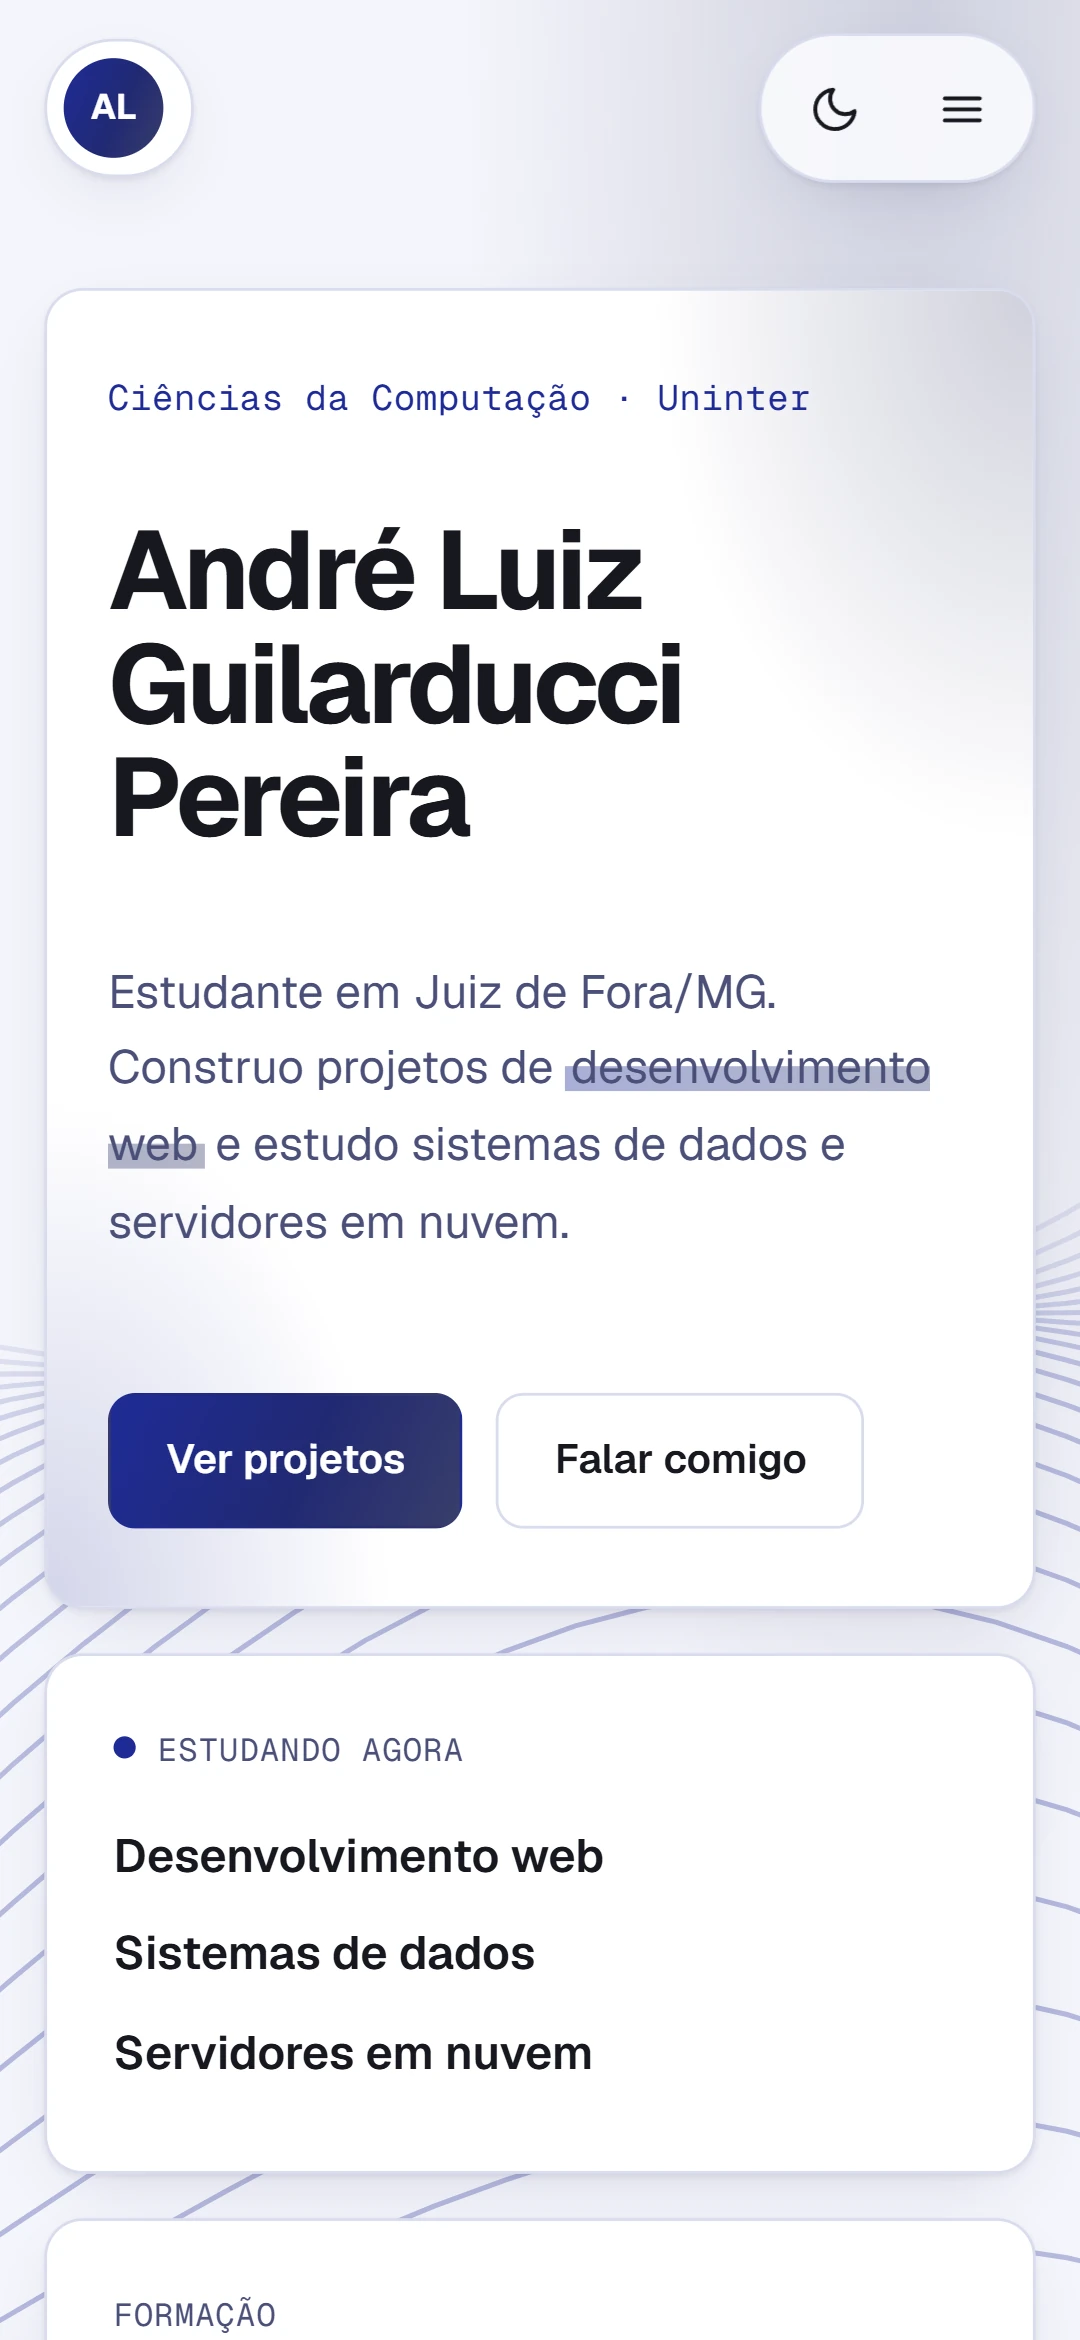
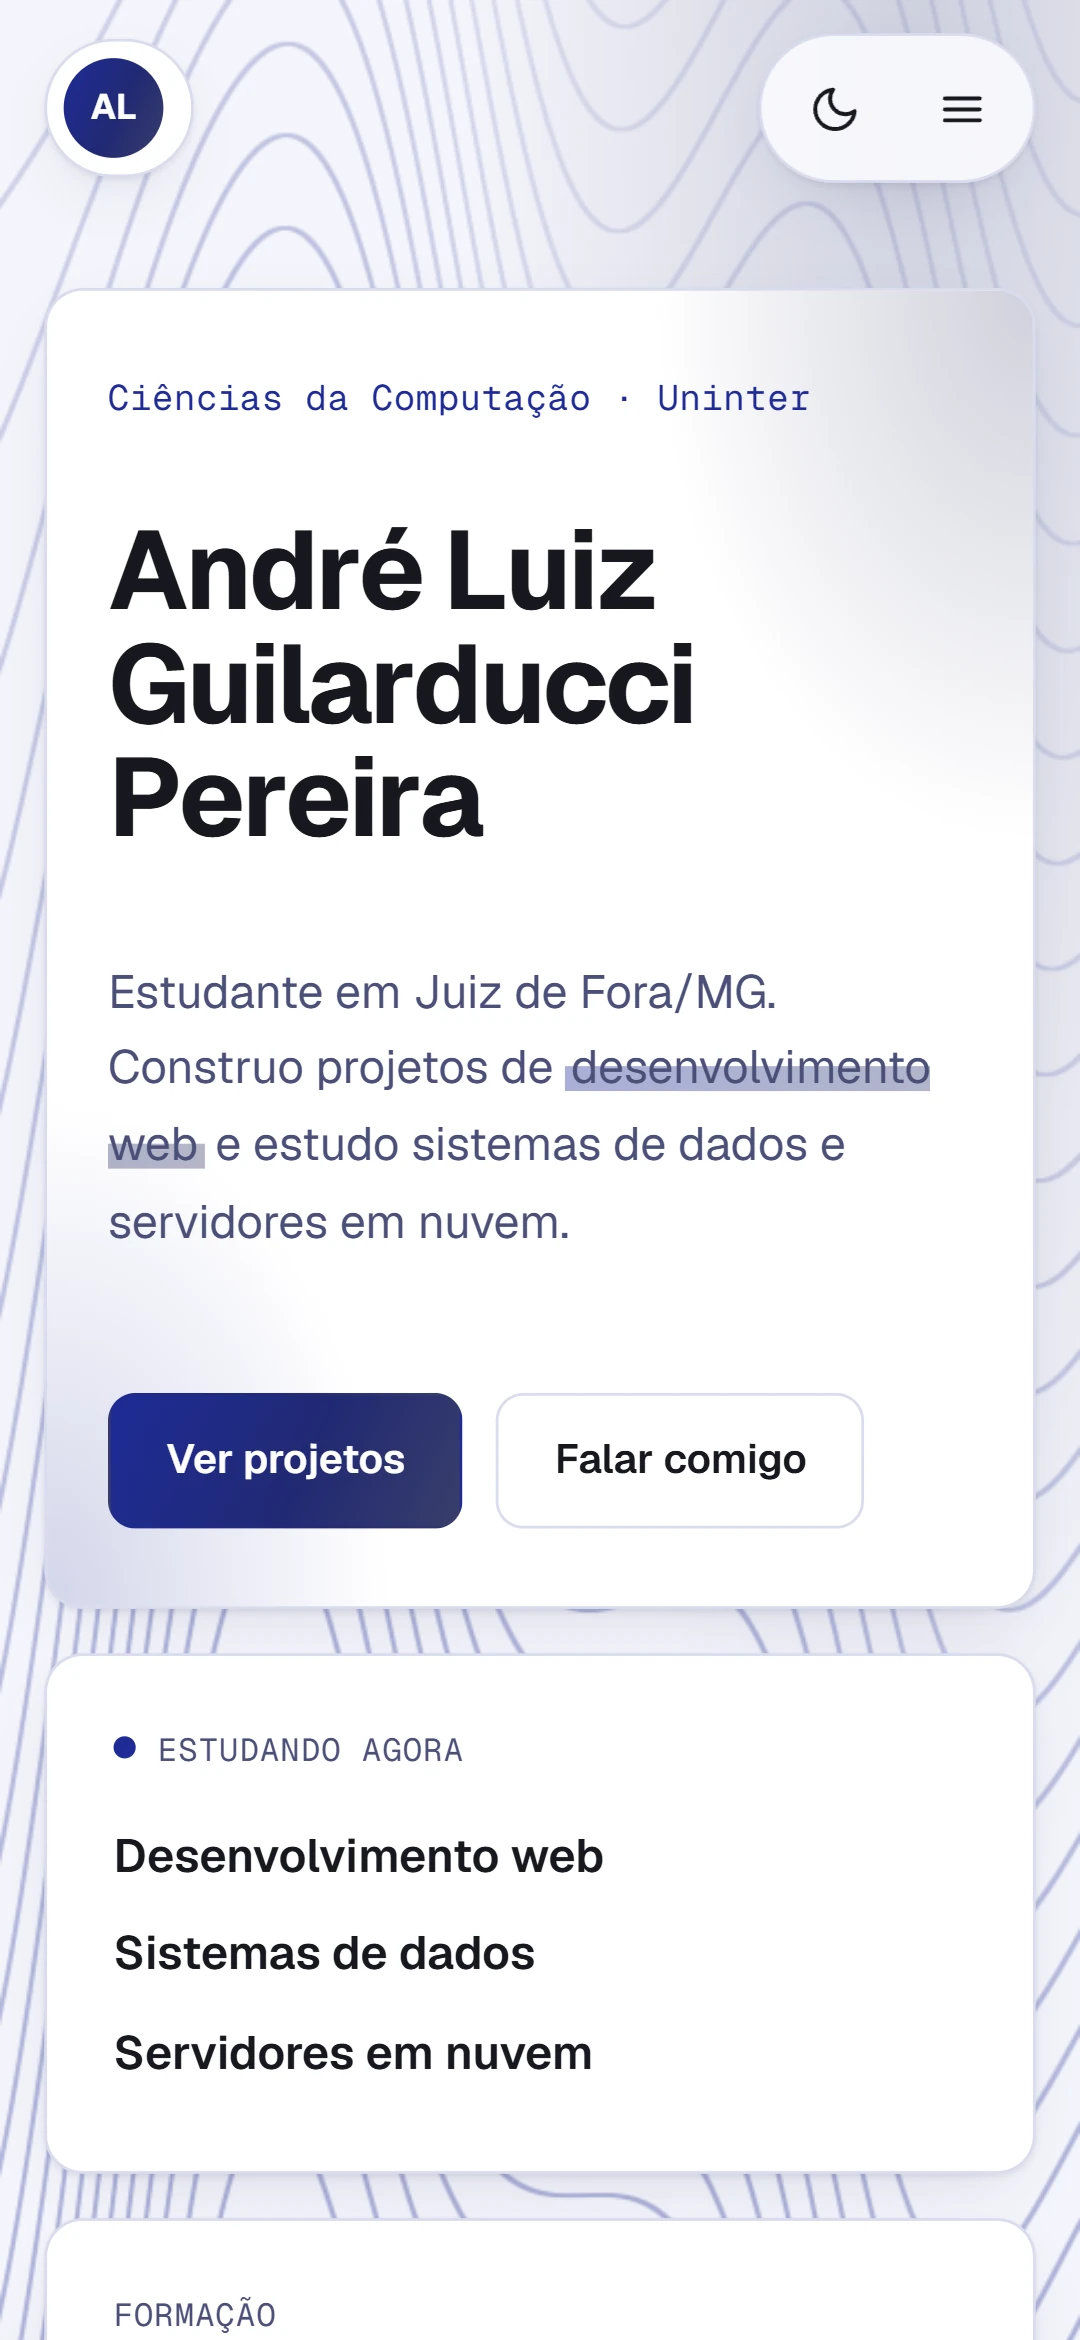
feat: ondas animadas, letras que sobem, blocos com luz e tema escuro em preto e azul
- Ondas em WebGL (sem biblioteca) no fundo do início e das seções alternadas;
  reagem ao cursor, pausam fora da tela e viram quadro parado com movimento
  reduzido. Sem WebGL, o ondas.svg estático continua
- Nome e títulos das seções entram letra a letra, uma vez só; o texto inteiro
  fica no aria-label
- Blocos do início: borda que acende perto do cursor, inclusive nos vizinhos,
  e onda de luz no clique
- Tema escuro em preto (#0b0b10, #181820) com o azul Klein nos botões e um azul
  mais claro em links e números
- Capturas do próprio portfólio refeitas com o visual novo

diff --git a/script.js b/script.js
@@ -1,4 +1,4 @@
-// script.js — tema, menu, destaque do link ativo, entrada ao rolar e formulário
+// script.js — tema, menu, destaque do link ativo, entrada ao rolar, formulário e efeitos do início
 
 document.addEventListener("DOMContentLoaded", () => {
     const root = document.documentElement;
@@ -87,8 +87,8 @@ document.addEventListener("DOMContentLoaded", () => {
         document.querySelectorAll('.reveal').forEach((el) => el.classList.add('visivel'));
     }
 
-    // 4b. LUZ QUE SEGUE O CURSOR nos tiles e cards (só com mouse)
-    document.querySelectorAll('.tile, .projeto').forEach((el) => {
+    // 4b. LUZ QUE SEGUE O CURSOR nos cartões de projeto (nos blocos do início, ver 6b)
+    document.querySelectorAll('.projeto').forEach((el) => {
         el.addEventListener('pointermove', (e) => {
             if (e.pointerType !== 'mouse') return;
             const r = el.getBoundingClientRect();
@@ -177,4 +177,197 @@ document.addEventListener("DOMContentLoaded", () => {
         aviso.textContent = 'Abrindo seu app de e-mail. Se nada abrir, escreva para aluiz0953@gmail.com.';
         form.reset();
     });
+
+    // 6. EFEITOS DO INÍCIO
+    const calmo = window.matchMedia('(prefers-reduced-motion: reduce)').matches;
+
+    // 6a. LETRAS QUE SOBEM: o nome e os títulos das seções entram letra a letra, uma vez só.
+    //     As letras ficam em spans escondidos de leitores de tela; o título inteiro vai no aria-label.
+    const titulos = document.querySelectorAll('.hero h1, .secao-cab h2');
+    if (!calmo && 'IntersectionObserver' in window) {
+        titulos.forEach((el) => {
+            const texto = el.textContent.trim();
+            let n = 0;
+            el.setAttribute('aria-label', texto);
+            el.innerHTML = texto.split(/\s+/).map((palavra) =>
+                '<span class="sp-w" aria-hidden="true">' +
+                [...palavra].map((c) => `<span class="sp-c" style="--ci:${n++}">${c}</span>`).join('') +
+                '</span>').join(' ');
+            el.classList.add('split');
+        });
+        const verLetras = new IntersectionObserver((entradas) => {
+            entradas.forEach((e) => {
+                if (!e.isIntersecting) return;
+                e.target.classList.add('split-ativo');
+                verLetras.unobserve(e.target);
+            });
+        }, { threshold: 0.2 });
+        titulos.forEach((el) => verLetras.observe(el));
+    }
+
+    // 6b. BLOCOS DO INÍCIO: a borda acende perto do cursor (também nos blocos vizinhos)
+    //     e um clique solta uma onda de luz que atravessa a grade.
+    const bento = document.querySelector('.bento');
+    if (bento) {
+        const blocos = [...bento.querySelectorAll('.tile')];
+        blocos.forEach((t) => t.insertAdjacentHTML('beforeend',
+            '<span class="tile-onda-luz" aria-hidden="true"></span><span class="tile-borda" aria-hidden="true"></span><span class="tile-onda" aria-hidden="true"></span>'));
+
+        let px = -1e5, py = -1e5, onda = null, raf = 0;
+        const quadro = (agora) => {
+            raf = 0;
+            let wr = 0, wa = 0;
+            if (onda) {
+                const p = Math.min(1, (agora - onda.t0) / 1500);
+                wr = onda.alcance * (1 - Math.pow(1 - p, 2.2));
+                wa = Math.pow(1 - p, 1.3);
+                if (p >= 1) onda = null;
+            }
+            blocos.forEach((t) => {
+                const r = t.getBoundingClientRect();
+                t.style.setProperty('--mx', (px - r.left).toFixed(1) + 'px');
+                t.style.setProperty('--my', (py - r.top).toFixed(1) + 'px');
+                if (onda || wa === 0) {
+                    t.style.setProperty('--wx', ((onda ? onda.x : 0) - r.left).toFixed(1) + 'px');
+                    t.style.setProperty('--wy', ((onda ? onda.y : 0) - r.top).toFixed(1) + 'px');
+                    t.style.setProperty('--wr', wr.toFixed(1) + 'px');
+                    t.style.setProperty('--wa', wa.toFixed(3));
+                }
+            });
+            if (onda) raf = requestAnimationFrame(quadro);
+        };
+        const pedir = () => { if (!raf) raf = requestAnimationFrame(quadro); };
+
+        window.addEventListener('pointermove', (e) => {
+            if (e.pointerType !== 'mouse') return;
+            px = e.clientX; py = e.clientY;
+            const b = bento.getBoundingClientRect(), m = 120;
+            const perto = px > b.left - m && px < b.right + m && py > b.top - m && py < b.bottom + m;
+            bento.classList.toggle('perto', perto);
+            if (perto) pedir();
+        }, { passive: true });
+        document.documentElement.addEventListener('mouseleave', () => bento.classList.remove('perto'));
+
+        if (!calmo) {
+            bento.addEventListener('pointerdown', (e) => {
+                const b = bento.getBoundingClientRect();
+                const alcance = Math.max(...[[b.left, b.top], [b.right, b.top], [b.left, b.bottom], [b.right, b.bottom]]
+                    .map(([x, y]) => Math.hypot(x - e.clientX, y - e.clientY))) + 140;
+                onda = { x: e.clientX, y: e.clientY, t0: performance.now(), alcance };
+                pedir();
+            });
+        }
+    }
+
+    // 6c. ONDAS ANIMADAS NO FUNDO (WebGL, sem biblioteca): no início e nas seções alternadas.
+    //     Reagem ao cursor, param quando a seção sai da tela e viram um quadro parado com
+    //     movimento reduzido. Sem WebGL, o ondas.svg estático continua no lugar.
+    const FRAG = `
+        #extension GL_OES_standard_derivatives : enable
+        precision highp float;
+        uniform vec2 uRes, uMouse;
+        uniform float uTempo, uMouseOn, uAlpha;
+        uniform vec3 uCor;
+        void main() {
+            vec2 p = gl_FragCoord.xy / uRes.y;
+            float x = p.x * uRes.y / uRes.x;
+            float t = uTempo;
+            // faixas de linhas que se juntam e se afastam, como no ondas.svg
+            float env = .55 + .45 * sin(6.2832 * x * .55 + p.y * 1.4 + t * .15);
+            float w = .23 * sin(6.2832 * x * .85 + p.y * 1.6 + t * .35) * env
+                    + .06 * sin(6.2832 * x * 2.2 - p.y * 3. - t * .6)
+                    + .16 * x;
+            vec2 d = p - uMouse;
+            w += uMouseOn * .09 * exp(-dot(d, d) * 16.);
+            float v = (p.y + w) * 34.;
+            float f = fract(v), dist = min(f, 1. - f), fw = fwidth(v);
+            float linha = 1. - smoothstep(0., fw * 1.2, dist - fw * .3);
+            float faixa = .3 + .7 * smoothstep(0., 1., .5 + .5 * sin(v * .09 + t * .1));
+            float a = linha * faixa * uAlpha;
+            gl_FragColor = vec4(uCor * a, a);
+        }`;
+
+    const ondas = (secao, intensidade) => {
+        const tela = document.createElement('canvas');
+        const gl = tela.getContext('webgl', { premultipliedAlpha: true, antialias: false });
+        if (!gl || !gl.getExtension('OES_standard_derivatives')) return;
+        const compilar = (tipo, fonte) => {
+            const s = gl.createShader(tipo);
+            gl.shaderSource(s, fonte);
+            gl.compileShader(s);
+            return s;
+        };
+        const prog = gl.createProgram();
+        gl.attachShader(prog, compilar(gl.VERTEX_SHADER, 'attribute vec2 a;void main(){gl_Position=vec4(a,0.,1.);}'));
+        gl.attachShader(prog, compilar(gl.FRAGMENT_SHADER, FRAG));
+        gl.linkProgram(prog);
+        if (!gl.getProgramParameter(prog, gl.LINK_STATUS)) return;
+
+        gl.useProgram(prog);
+        gl.bindBuffer(gl.ARRAY_BUFFER, gl.createBuffer());
+        gl.bufferData(gl.ARRAY_BUFFER, new Float32Array([-1, -1, 3, -1, -1, 3]), gl.STATIC_DRAW);
+        gl.enableVertexAttribArray(0);
+        gl.vertexAttribPointer(0, 2, gl.FLOAT, false, 0, 0);
+        const u = {};
+        ['uRes', 'uMouse', 'uTempo', 'uMouseOn', 'uAlpha', 'uCor'].forEach((k) => { u[k] = gl.getUniformLocation(prog, k); });
+
+        tela.className = 'ondas-vivas';
+        tela.setAttribute('aria-hidden', 'true');
+        secao.prepend(tela);
+        secao.classList.add('tem-ondas');
+
+        // cor e intensidade vêm do tema (o token --accent já resolvido pelo CSS)
+        const lerTema = () => {
+            const hex = getComputedStyle(root).getPropertyValue('--accent').trim().replace('#', '');
+            const c = [0, 2, 4].map((i) => parseInt(hex.slice(i, i + 2), 16) / 255);
+            gl.uniform3fv(u.uCor, c.every((n) => n >= 0) ? c : [0.12, 0.17, 0.59]);
+            gl.uniform1f(u.uAlpha, intensidade[root.dataset.theme === 'dark' ? 1 : 0]);
+        };
+        lerTema();
+
+        const escala = Math.min(window.devicePixelRatio || 1, 1.25);
+        const medir = () => {
+            tela.width = Math.max(1, Math.round(secao.clientWidth * escala));
+            tela.height = Math.max(1, Math.round(secao.clientHeight * escala));
+            gl.viewport(0, 0, tela.width, tela.height);
+            gl.uniform2f(u.uRes, tela.width, tela.height);
+        };
+        medir();
+
+        let mx = 0.5, my = 0.5, alvoX = 0.5, alvoY = 0.5, mouseOn = 0, alvoOn = 0;
+        window.addEventListener('pointermove', (e) => {
+            if (e.pointerType !== 'mouse') return;
+            const r = secao.getBoundingClientRect();
+            alvoX = (e.clientX - r.left) / r.height;
+            alvoY = (r.bottom - e.clientY) / r.height;
+            alvoOn = e.clientY >= r.top && e.clientY <= r.bottom ? 1 : 0;
+        }, { passive: true });
+
+        let rodando = false, raf = 0;
+        const desenhar = (agora) => {
+            mx += (alvoX - mx) * 0.06;
+            my += (alvoY - my) * 0.06;
+            mouseOn += (alvoOn - mouseOn) * 0.05;
+            gl.uniform1f(u.uTempo, calmo ? 8 : agora / 1000);
+            gl.uniform2f(u.uMouse, mx, my);
+            gl.uniform1f(u.uMouseOn, calmo ? 0 : mouseOn);
+            gl.clearColor(0, 0, 0, 0);
+            gl.clear(gl.COLOR_BUFFER_BIT);
+            gl.drawArrays(gl.TRIANGLES, 0, 3);
+            raf = rodando && !calmo ? requestAnimationFrame(desenhar) : 0;
+        };
+        const ligar = (sim) => {
+            rodando = sim;
+            if (sim && !raf) raf = requestAnimationFrame(desenhar);
+        };
+
+        new ResizeObserver(() => { medir(); if (!rodando || calmo) desenhar(performance.now()); }).observe(secao);
+        new MutationObserver(() => { lerTema(); if (!rodando || calmo) desenhar(performance.now()); })
+            .observe(root, { attributes: true, attributeFilter: ['data-theme'] });
+        new IntersectionObserver(([e]) => ligar(e.isIntersecting)).observe(secao);
+    };
+
+    // intensidade das linhas: [tema claro, tema escuro]
+    document.querySelectorAll('.hero').forEach((s) => ondas(s, [0.34, 0.42]));
+    document.querySelectorAll('section.alt').forEach((s) => ondas(s, [0.2, 0.26]));
 });

diff --git a/style.css b/style.css
@@ -42,20 +42,20 @@
 }
 
 :root[data-theme="dark"] {
-    --grad: linear-gradient(115deg, #a2acff, #8d99ff 50%, #7380f0);
-    --on-grad: #0F124A;
-    --bg: #0F124A;
-    --bg-alt: #0b0e3b;
-    --surface: #151a63;
-    --ink: #eceeff;
-    --muted: #a3a9d6;
-    --line: #2a3084;
-    --accent: #8d99ff;
-    --accent-strong: #b3bbff;
-    --accent-ink: #0F124A;
-    --accent-soft: #1d2377;
+    /* preto (cinza sombra #181820 e tons abaixo dele) com o azul Klein: botões e gradientes
+       em #1F2B96 com texto branco; links e números num azul mais claro, legível sobre o preto */
+    --bg: #0b0b10;
+    --bg-alt: #101016;
+    --surface: #181820;
+    --ink: #ececf3;
+    --muted: #a0a3b8;
+    --line: #2a2b3a;
+    --accent: #7d8bff;
+    --accent-strong: #a9b3ff;
+    --accent-ink: #0b0b10;
+    --accent-soft: #1a1d3d;
     --danger: #f08a80;
-    --shadow: 0 1px 2px rgb(0 0 0 / .4), 0 12px 28px -14px rgb(0 0 0 / .6);
+    --shadow: 0 1px 2px rgb(0 0 0 / .5), 0 12px 28px -14px rgb(0 0 0 / .7);
     color-scheme: dark;
 }
 
@@ -842,6 +842,102 @@ section.alt::before {
     background: linear-gradient(90deg, color-mix(in srgb, var(--p1) 38%, transparent), color-mix(in srgb, var(--p4) 38%, transparent)) 0 88% / 100% 42% no-repeat;
     color: inherit;
     padding: 0 2px;
+}
+
+/* ---------- Efeitos do início ---------- */
+/* Ondas animadas (canvas WebGL criado pelo script.js); com ele, o ondas.svg estático sai */
+.ondas-vivas {
+    position: absolute;
+    inset: 0;
+    z-index: -1;
+    width: 100%;
+    height: 100%;
+    pointer-events: none;
+}
+
+.hero.tem-ondas::after,
+section.alt.tem-ondas::before {
+    display: none;
+}
+
+/* Letras que sobem: o script.js separa o texto e liga .split-ativo quando o título aparece */
+.sp-w {
+    display: inline-block;
+    white-space: nowrap;
+}
+
+.sp-c {
+    display: inline-block;
+}
+
+.split .sp-c {
+    opacity: 0;
+    transform: translateY(.45em);
+}
+
+.split.split-ativo .sp-c {
+    opacity: 1;
+    transform: none;
+    transition: opacity .5s var(--ease), transform .7s var(--ease);
+    transition-delay: calc(var(--sp-base, 0ms) + var(--ci) * 28ms);
+}
+
+.hero h1 {
+    --sp-base: 260ms;
+}
+
+/* Blocos do início: borda que acende perto do cursor e onda de luz no clique */
+.tile > .tile-borda,
+.tile > .tile-onda {
+    position: absolute;
+    inset: 0;
+    z-index: 2;
+    padding: 2.5px;
+    border-radius: inherit;
+    pointer-events: none;
+    -webkit-mask: linear-gradient(#000 0 0) content-box, linear-gradient(#000 0 0);
+    -webkit-mask-composite: xor;
+    mask: linear-gradient(#000 0 0) content-box exclude, linear-gradient(#000 0 0);
+}
+
+.tile > .tile-borda {
+    background: radial-gradient(340px circle at var(--mx, -999px) var(--my, -999px),
+            var(--accent), var(--accent) 22%, color-mix(in srgb, var(--accent) 55%, transparent) 50%, transparent 78%);
+    opacity: 0;
+    transition: opacity .35s var(--ease);
+}
+
+.bento.perto .tile > .tile-borda {
+    opacity: 1;
+}
+
+.tile > .tile-onda {
+    padding: 3.5px;
+    background: radial-gradient(circle at var(--wx, -999px) var(--wy, -999px),
+            transparent calc(var(--wr, 0px) - 150px),
+            var(--accent) calc(var(--wr, 0px) - 10px),
+            transparent var(--wr, 0px));
+    opacity: var(--wa, 0);
+}
+
+/* brilho da onda dentro do bloco (sem máscara: atravessa o conteúdo como uma faixa de luz) */
+.tile > .tile-onda-luz {
+    position: absolute;
+    inset: 0;
+    z-index: 0;
+    border-radius: inherit;
+    pointer-events: none;
+    background: radial-gradient(circle at var(--wx, -999px) var(--wy, -999px),
+            transparent calc(var(--wr, 0px) - 220px),
+            color-mix(in srgb, var(--accent) 22%, transparent) calc(var(--wr, 0px) - 20px),
+            transparent var(--wr, 0px));
+    opacity: var(--wa, 0);
+}
+
+/* luz dentro do bloco: mais nítida, seguindo o mesmo cursor */
+.tile::after {
+    background: radial-gradient(300px circle at var(--mx, 50%) var(--my, 50%),
+            color-mix(in srgb, var(--accent) 14%, transparent), transparent 70%);
 }
 
 /* ---------- Seções ---------- */

diff --git a/index.html b/index.html
@@ -7,7 +7,8 @@
     <title>André Luiz Guilarducci Pereira — Portfólio</title>
     <meta name="description"
         content="Estudante de Ciências da Computação na Uninter. Projetos em desenvolvimento web, sistemas de dados e infraestrutura.">
-    <meta name="theme-color" content="#1F2B96">
+    <meta name="theme-color" content="#1F2B96" media="(prefers-color-scheme: light)">
+    <meta name="theme-color" content="#0b0b10" media="(prefers-color-scheme: dark)">
 
     <meta property="og:type" content="website">
     <meta property="og:title" content="André Luiz Guilarducci Pereira — Portfólio">
@@ -23,7 +24,7 @@
     <link rel="preconnect" href="https://fonts.gstatic.com" crossorigin>
     <link rel="stylesheet"
         href="https://fonts.googleapis.com/css2?family=Geist:wght@400;500;600;700&family=Geist+Mono:wght@400;500&display=swap">
-    <link rel="stylesheet" href="style.css?v=18">
+    <link rel="stylesheet" href="style.css?v=21">
 
     <!-- Aplica o tema antes da pintura para evitar flash -->
     <script>
@@ -36,7 +37,7 @@
             } catch (e) { }
         })();
     </script>
-    <script src="script.js?v=14" defer></script>
+    <script src="script.js?v=21" defer></script>
 </head>
 
 <body>
@@ -382,13 +383,13 @@
 
                     <article class="projeto reveal" id="projeto-portfolio">
                         <div class="capa">
-                            <img data-tema="claro" src="./captura-portfolio.webp?v=18" width="1440" height="810" loading="lazy"
+                            <img data-tema="claro" src="./captura-portfolio.webp?v=21" width="1440" height="810" loading="lazy"
                                 alt="Início deste portfólio, com o nome em destaque e blocos de formação e foco atual">
-                            <img data-tema="escuro" src="./captura-portfolio-escuro.webp?v=18" width="1440" height="810" loading="lazy"
+                            <img data-tema="escuro" src="./captura-portfolio-escuro.webp?v=21" width="1440" height="810" loading="lazy"
                                 alt="Início deste portfólio, com o nome em destaque e blocos de formação e foco atual">
-                            <img data-tema="claro" class="capa-celular" src="./captura-portfolio-mobile.webp?v=18" width="1080" height="2340" loading="lazy"
+                            <img data-tema="claro" class="capa-celular" src="./captura-portfolio-mobile.webp?v=21" width="1080" height="2340" loading="lazy"
                                 alt="Início deste portfólio no celular, com o nome em destaque">
-                            <img data-tema="escuro" class="capa-celular" src="./captura-portfolio-mobile-escuro.webp?v=18" width="1080" height="2340" loading="lazy"
+                            <img data-tema="escuro" class="capa-celular" src="./captura-portfolio-mobile-escuro.webp?v=21" width="1080" height="2340" loading="lazy"
                                 alt="Início deste portfólio no celular, com o nome em destaque">
                         </div>
                         <div class="projeto-corpo">
